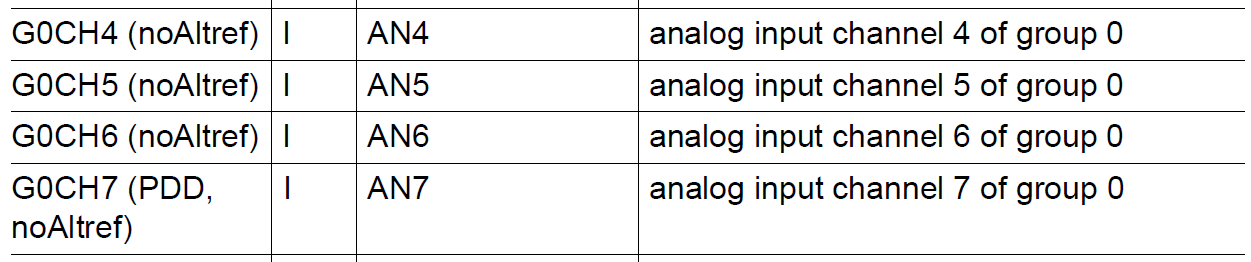
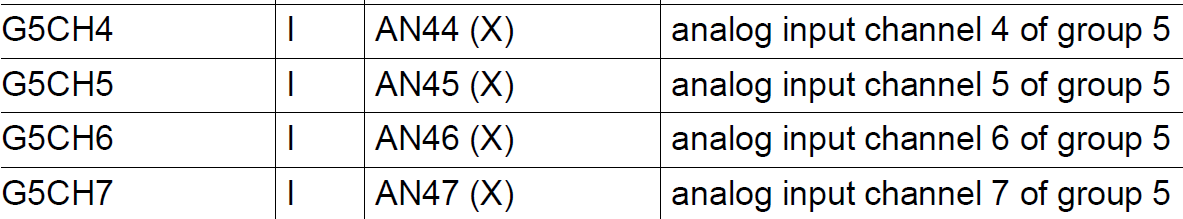
MyOwnCheapOsilloscope 메뉴얼 수정 및 MultiChannelVoltmeter 그림 수정

diff --git a/src/MyApp/MyIlldModule/0_Src/AppSw/MyIlldModule/VadcAsc/Demo_Illd/_VadcAutoScanDemo.c b/src/MyApp/MyIlldModule/0_Src/AppSw/MyIlldModule/VadcAsc/Demo_Illd/_VadcAutoScanDemo.c
@@ -48,6 +48,7 @@ App_VadcAutoScan g_VadcAutoScan; /**< \brief Demo information */
 
 IfxVadc_Adc_Channel       adcChannel[4];
 
+
 /******************************************************************************/
 /*-------------------------Function Prototypes--------------------------------*/
 /******************************************************************************/
@@ -80,7 +81,12 @@ void VadcAutoScanDemo_init(void)
     IfxVadc_Adc_initGroupConfig(&adcGroupConfig, &g_VadcAutoScan.vadc);
 
     /* with group 0 */
+#if BOARD == APPLICATION_KIT_TC237
     adcGroupConfig.groupId = IfxVadc_GroupId_0;
+#elif BOARD == SHIELD_BUDDY
+    adcGroupConfig.groupId = IfxVadc_GroupId_1;
+#endif
+
     adcGroupConfig.master  = adcGroupConfig.groupId;
 
     /* enable scan source */

diff --git a/src/MyApp/MyIlldModule/0_Src/AppSw/MyIlldModule/VadcAutoScan/Demo_Illd/VadcAutoScanDemo.c b/src/MyApp/MyIlldModule/0_Src/AppSw/MyIlldModule/VadcAutoScan/Demo_Illd/VadcAutoScanDemo.c
@@ -148,7 +148,7 @@ void VadcAutoScanDemo_run(void)
 		volatile uint32 actual = conversionResult.B.RESULT;
 		/* print result, check with expected value */
 		{
-//			printf("Group %d Channel %d : %u\n", group, channel, actual);
+			printf("Group %d Channel %d : %u\n", group, channel, actual);
 		}
 	}
 }

diff --git a/docs/MultiChannelVoltmeter.md b/docs/MultiChannelVoltmeter.md
@@ -39,9 +39,8 @@ AURIX의 VADC는 위의 두가지 사항을 충실하게 지원해 주고 있습
 
 * MyIlldModule_AK_TC23A - VadcBackgroundScan
 * MyIlldModule_SB_TC27D - VadcBackgroundScan
-
-* AurixRacer_AK_TC23A - TestVadcBgScan
-* AurixRacer_SB_TC27D - TestVadcBgScan
+- AurixRacer_AK_TC23A - TestVadcBgScan
+- AurixRacer_SB_TC27D - TestVadcBgScan
 
 -----
 
@@ -245,14 +244,14 @@ return 0;
 
 * 각 보드에서 사용할 Analog source는 다음과 같다
   * TC237: AN15, 16, 20, 21
-  * TC275: AN4, 5, 6, 7
+  * TC275: AN44, 45, 46, 47
 - 각 Board에는 이 source에 맞는 pin과 converter가 맵핑되어있다.
 * User manual을 통해 사용해야하는 group과 channel을 확인
   * TC237
   ![MultiChannelVoltmeter_Pin_237](images/MultiChannelVoltmeter_Pin_237.png)
 
   * TC275
-  ![MultiChannelVoltmeter_Pin_275](images/MultiChannelVoltmeter_Pin_275.png)
+  ![MultiChannelVoltmeter_Pin_275](images/MultiChannelVoltmeter_Pin_275.PNG)
 
 * Channel configuration 초기화 때 이 설정값을 입력
 
@@ -264,7 +263,7 @@ static uint32 adcChannelNum[ADC_CHN_MAX] = {
 };
 #elif BOARD == SHIELD_BUDDY
 static uint32 adcChannelNum[ADC_CHN_MAX] = {
-		4, 5, 6, 7 // AN15, AN16, AN20, AN21
+		4, 5, 6, 7 // AN44, AN45, AN46, AN47
 };
 #endif
 
